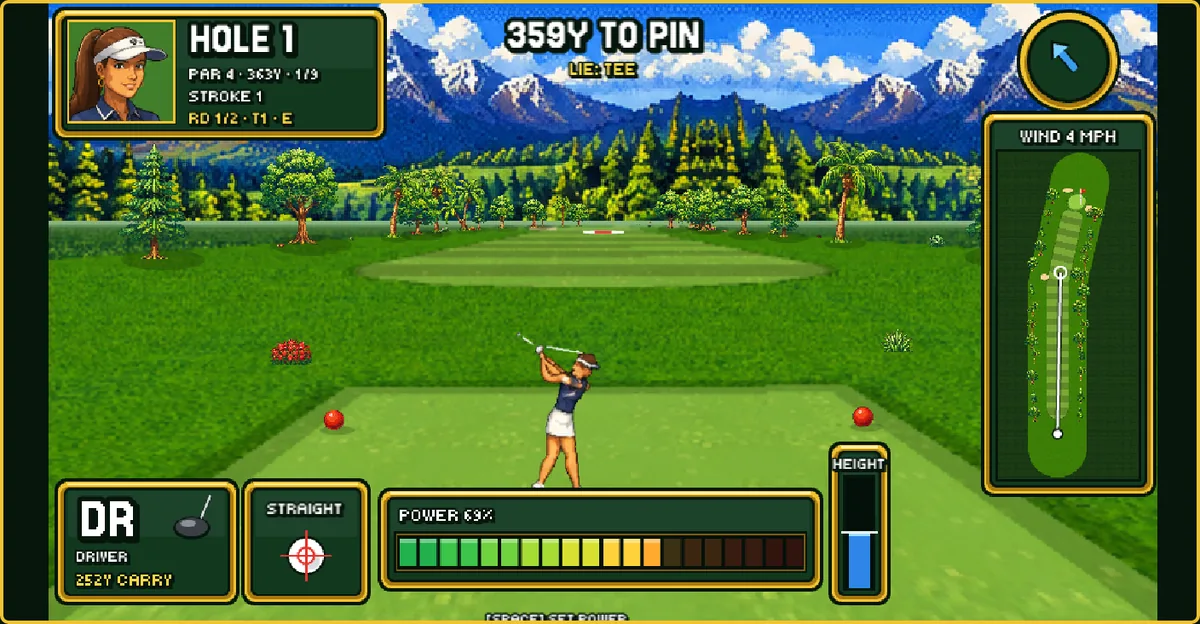
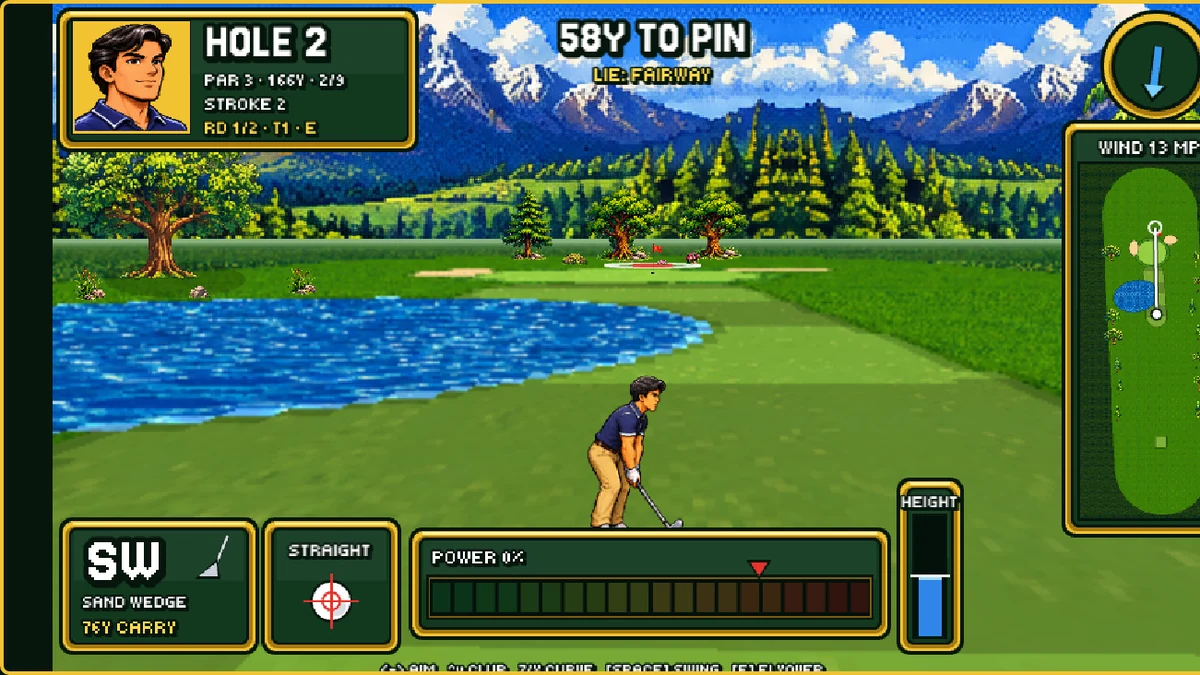
Website: new screenshots and a six-feature gallery
- Fresh in-game screenshots: course (Dry Creek hole 2 with the new
  scenery), career hub over the new backgrounds, Grand Clubhouse,
  Madame Monique's roulette, Velvet Vega's blackjack, greyhound racing.
- Gallery grows from four to six features; captions match the game now.
- Old screenshots archived in art/retired/site_shots_v1.

Claude-Session: https://claude.ai/code/session_01PkDBiKEFqjsGM3EyfJMuNG

diff --git a/site/index.html b/site/index.html
@@ -53,24 +53,34 @@
         <h2 class="section-title">The road to the tour</h2>
         <div class="feature-grid">
           <article class="panel feature">
-            <img src="assets/shot_course.webp" alt="Ryan on the tee with the swing meter" loading="lazy" />
+            <img src="assets/shot_course.webp" alt="Ryan lining up an approach over the pond on Dry Creek's Duck Pond hole" loading="lazy" />
             <h3>Arcade golf</h3>
-            <p>Two-click swing, draw and fade, wind, sloping greens and backspin. Ryan's skills change how every shot feels.</p>
+            <p>Two-click swing, draw and fade, wind, sloping greens and backspin. Ryan's skills change how every shot feels, on six courses from the home muni to Highland Ridge.</p>
           </article>
           <article class="panel feature">
-            <img src="assets/shot_hub.webp" alt="Career screen with skills, activities and inbox" loading="lazy" />
+            <img src="assets/shot_hub.webp" alt="Career screen with skills, activities and inbox over the city sunset scenery" loading="lazy" />
             <h3>A career RPG</h3>
             <p>Train, work shifts, rest and see friends each week. Story events, a rival, sponsors and money to manage, from the Amateur Circuit through Q-School to the LPGA.</p>
           </article>
           <article class="panel feature">
-            <img src="assets/shot_clubhouse.webp" alt="A decorated clubhouse with trophy cabinets" loading="lazy" />
+            <img src="assets/shot_clubhouse.webp" alt="The Grand Clubhouse with trophy cabinets, a sofa and windows over the course" loading="lazy" />
             <h3>Your clubhouse</h3>
-            <p>Move up from a one-bed apartment to a Champion's Estate. Decorate it and fill the cabinets with every trophy you win.</p>
+            <p>Move up from a one-bed apartment above a taco shop to the Grand Clubhouse. Decorate it and fill the cabinets with every trophy you win.</p>
           </article>
           <article class="panel feature">
-            <img src="assets/shot_casino.webp" alt="Blackjack table at Desert Palms Casino" loading="lazy" />
+            <img src="assets/shot_roulette.webp" alt="Madame Monique at the Desert Palms roulette table" loading="lazy" />
+            <h3>Madame Monique's wheel</h3>
+            <p>Roulette at Desert Palms, run by a croupier who remembers every streak, every big win and how your golf is going. The wheel remembers, darling.</p>
+          </article>
+          <article class="panel feature">
+            <img src="assets/shot_casino.webp" alt="Velvet Vega dealing blackjack at Desert Palms Casino" loading="lazy" />
             <h3>Desert Palms Casino</h3>
-            <p>Blackjack, slots and craps for a night off the course. Just don't tell Mom.</p>
+            <p>Blackjack with Velvet Vega, slots, and craps with the stickman, for a night off the course. In-game money only.</p>
+          </article>
+          <article class="panel feature">
+            <img src="assets/shot_greyhounds.webp" alt="Six greyhounds in lane jackets racing down the track" loading="lazy" />
+            <h3>Greyhound racing</h3>
+            <p>Thirty-six dogs, a new field of six every race, and odds worked out from how they match up. Back one to win and watch it run.</p>
           </article>
         </div>
       </section>
